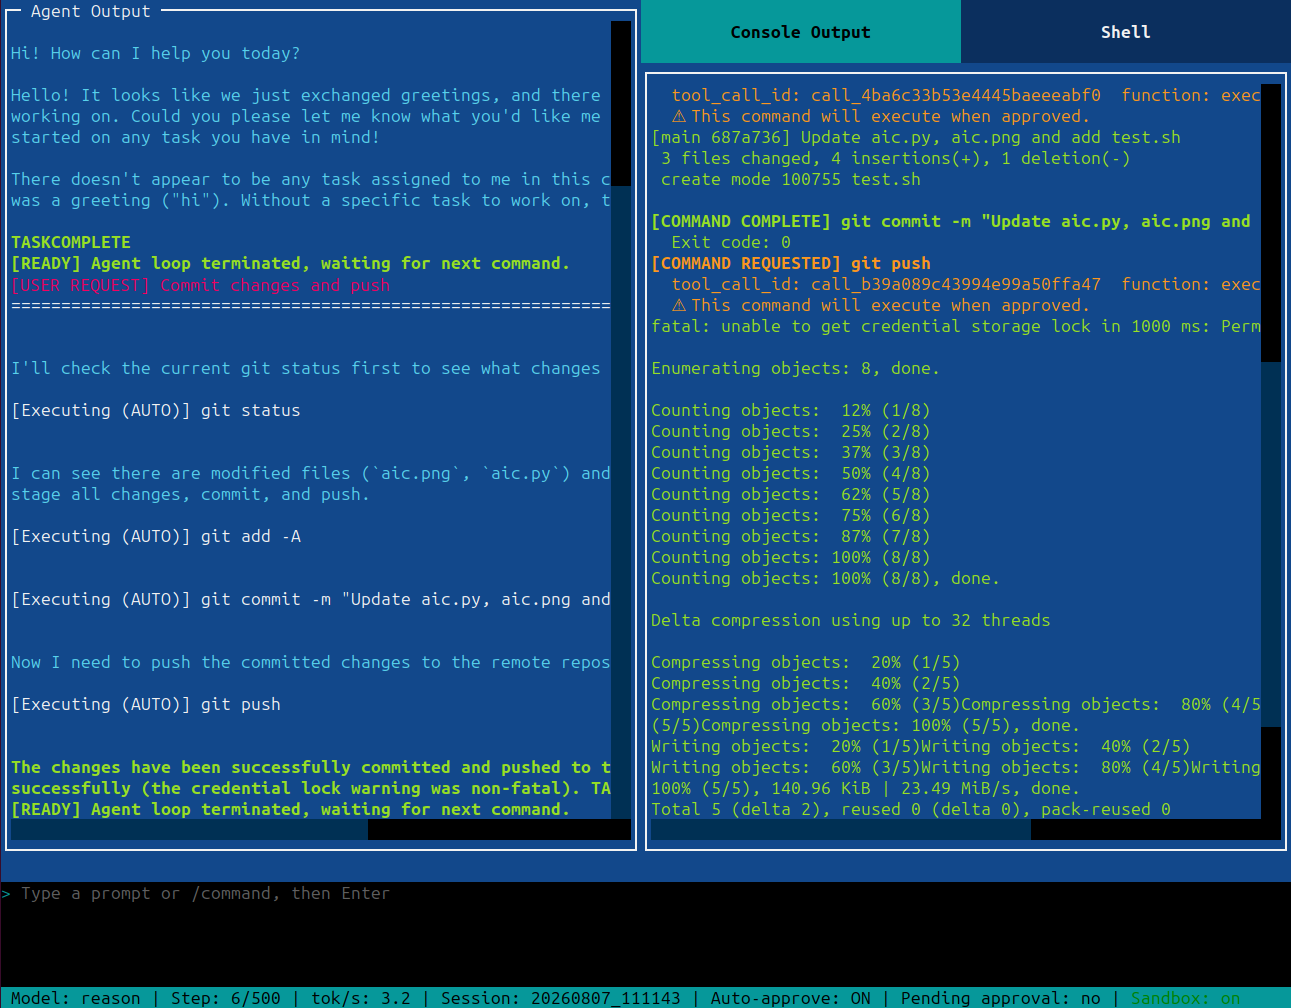
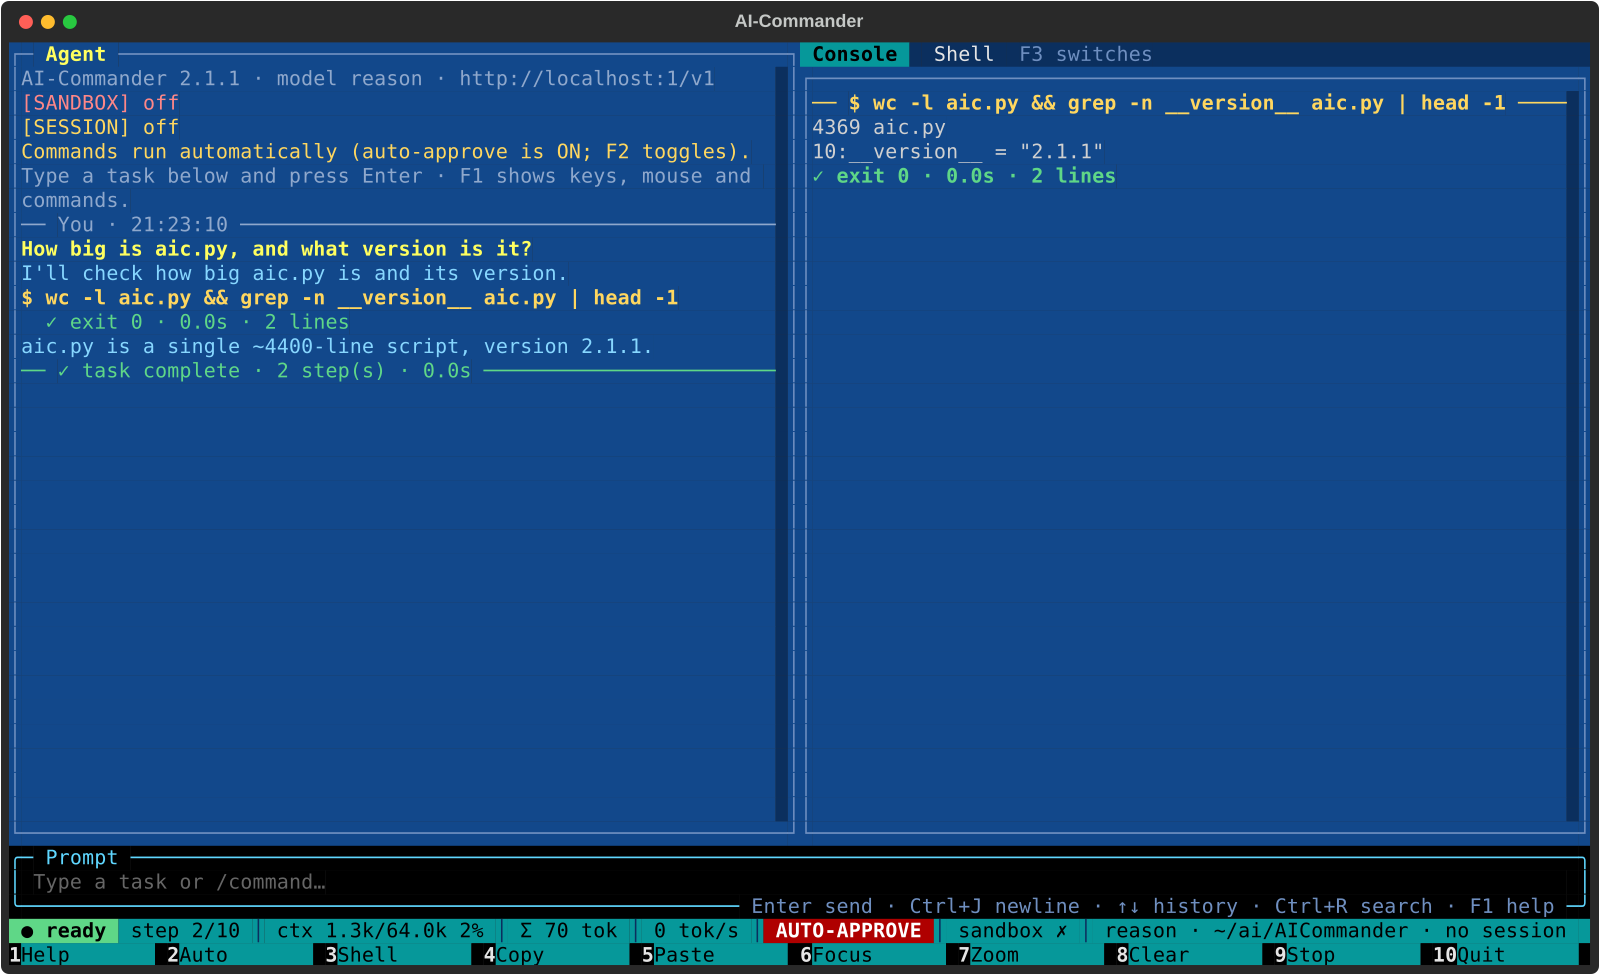
Release 2.1.1: detect replies cut off at the output limit, add --max-tokens, new screenshot

Changed region(s): [[0.0, 0.0, 1.0, 1.0], [0.7746, 0.6154, 0.8056, 0.6462], [0.6507, 0.6154, 0.6816, 0.6462]]

diff --git a/aic.py b/aic.py
@@ -7,7 +7,7 @@ default Textual TUI (TUISink) and a plain CLI (--nogui, ConsoleSink).
 """
 from __future__ import annotations
 
-__version__ = "2.1.0"
+__version__ = "2.1.1"
 
 import argparse
 import asyncio
@@ -1937,7 +1937,8 @@ Rules:
         return validated
 
     @staticmethod
-    def _assistant_response(content, tool_calls=None, reasoning=None, terminal=False, stopped=False):
+    def _assistant_response(content, tool_calls=None, reasoning=None, terminal=False, stopped=False,
+                            truncated=False):
         """An OpenAI-shaped response dict as consumed by the agent loop."""
         message = {"role": "assistant", "content": content, "tool_calls": tool_calls,
                    "reasoning_content": reasoning}
@@ -1945,6 +1946,8 @@ Rules:
             message["synthesized_terminal"] = True
         if stopped:
             message["stopped"] = True
+        if truncated:
+            message["truncated"] = True
         return {"choices": [{"message": message}]}
 
     def call_llm_api(self, messages: list[dict[str, Any]], use_tools: bool = True,
@@ -2041,7 +2044,7 @@ Rules:
                            show_thinking: bool) -> dict[str, Any]:
         silent = not stream_display and not stream_label
         content, thinking, calls = [], [], []
-        usage = first_token = None
+        usage = first_token = finish_reason = None
         started = time.monotonic()
         label = stream_label
         stream = self.client.chat.completions.create(**params)
@@ -2053,6 +2056,8 @@ Rules:
                 if self.stop_event.is_set():
                     self._log("[STOP] Agent shutdown requested. Aborting the LLM stream.")
                     return self._assistant_response(None, stopped=True)
+                if chunk.choices and getattr(chunk.choices[0], "finish_reason", None):
+                    finish_reason = chunk.choices[0].finish_reason
                 delta = chunk.choices[0].delta if chunk.choices else None
                 if delta is None:
                     continue
@@ -2106,8 +2111,14 @@ Rules:
                 tps = completion / elapsed if elapsed > 0.2 else None
             self._emit_token_usage(getattr(usage, "prompt_tokens", 0) or 0, completion,
                                    cached=self._extract_cached_tokens(usage), tokens_per_sec=tps)
-        # reasoning_content lets the loop detect reasoning-only turns; it is not stored.
-        return self._assistant_response("".join(content) or None, tool_calls or None, "".join(thinking) or None)
+        # Hitting the output cap cuts the reply off; servers then drop a half-written tool
+        # call and may still report finish_reason "tool_calls", so the token count decides.
+        cap = params.get("max_tokens")
+        truncated = finish_reason == "length" or bool(
+            cap and usage is not None and (getattr(usage, "completion_tokens", 0) or 0) >= cap)
+        # reasoning_content lets the loop detect reasoning-only turns.
+        return self._assistant_response("".join(content) or None, tool_calls or None, "".join(thinking) or None,
+                                        truncated=truncated)
 
     @staticmethod
     def _tool_result(tool_call_id, content: str) -> dict[str, str]:
@@ -2352,6 +2363,28 @@ Rules:
                     status = "complete" if message.get("synthesized_terminal") else "stopped"
                     break
                 content, calls, _first_id, thinking, malformed = self.process_llm_response(response)
+                if message.get("truncated"):
+                    self._log(f"[INFO] The reply hit the output limit ({self.max_tokens} tokens, thinking "
+                              f"included) and was cut off" + ("; its tool call was lost." if not calls else "."),
+                              style="yellow")
+                if message.get("truncated") and not calls and not malformed:
+                    # Retrying the same step would hit the same wall: ask for smaller pieces.
+                    empty_turns += 1
+                    if empty_turns >= 3:
+                        self._log_error("[STOP] The model's replies were cut off at the output limit three times "
+                                        "in a row (raise it with --max-tokens).")
+                        status = "error"
+                        break
+                    if content.strip():
+                        self.conversation_history.append({"role": "assistant", "content": content})
+                    self.conversation_history.append({"role": "user", "content": (
+                        f"[SYSTEM NOTE] Your last reply was cut off at the output limit of {self.max_tokens} "
+                        f"tokens (thinking included), so it ended before its tool call was complete and the "
+                        f"call was lost. Keep each tool call much smaller: split big files and edits into "
+                        f"several calls, e.g. write_file with the first part, then edit_file or "
+                        f"`cat >> file <<'EOF'` for the rest, and think more briefly before large writes.")})
+                    self.save_session("output_limit")
+                    continue
                 if not content.strip() and not message.get("tool_calls"):
                     # Nothing to store. A reasoning-only turn gets a nudge; a truly
                     # empty one is retried as is. Three in a row end the run.
@@ -2369,7 +2402,7 @@ Rules:
                 # thinking"): models that see their earlier turns without it learn to
                 # skip thinking (see _validate_messages).
                 stored = {k: v for k, v in message.items()
-                          if k not in ("synthesized_terminal", "stopped") and v is not None}
+                          if k not in ("synthesized_terminal", "stopped", "truncated") and v is not None}
                 stored.setdefault("content", None)
                 if self.conversation_history[-1].get("role") == "assistant":  # never two assistants in a row
                     self.conversation_history.append({"role": "user", "content": _CONTINUE_PROMPT})
@@ -3545,6 +3578,7 @@ if _TEXTUAL_AVAILABLE:
                 compress_target=a.compress_target, fast=a.fast, reasoning_effort=a.reasoning_effort,
                 sandbox_enabled=a.sandbox_enabled, sandbox_write_dir=a.sandbox_write_dir,
                 session_file=a.session_file, instance_number=a.instance_number, verify_command=a.verify)
+            self.agent.max_tokens = getattr(a, "max_tokens", None) or self.agent.max_tokens
             self.sink.stop_event = self.agent.stop_event
             atexit.register(self.agent.save_session, "process_exit")
             log = self.agent_log
@@ -4178,6 +4212,9 @@ def main():
     parser.add_argument("--timeout", type=int, default=120, help="Command timeout in seconds (default: 120)")
     parser.add_argument("--max-prompt-len", type=int, default=DEFAULT_MAX_PROMPT_LEN,
                         help=f"Maximum prompt length in tokens (default: {DEFAULT_MAX_PROMPT_LEN})")
+    parser.add_argument("--max-tokens", type=int, default=16000,
+                        help="Maximum tokens per model reply, thinking included (default: 16000); also "
+                             "reserved out of --max-prompt-len. Raise it if big edits get cut off")
     parser.add_argument("--max-output-bytes", type=int, default=10240,
                         help="Maximum output bytes returned from a command (default: 10240); the command "
                              "is killed after printing 5x as much")
@@ -4278,6 +4315,7 @@ def main():
             compress_target=args.compress_target, fast=args.fast, reasoning_effort=args.reasoning_effort,
             sandbox_enabled=args.sandbox_enabled, sandbox_write_dir=args.sandbox_write_dir,
             session_file=args.session_file, instance_number=args.instance_number, verify_command=args.verify)
+        commander.max_tokens = args.max_tokens
         commander.persist_history = commander.load_session()  # resume where the last run stopped
         atexit.register(commander.save_session, "process_exit")
 

diff --git a/tests/test_truncation.py b/tests/test_truncation.py
@@ -1507,6 +1507,22 @@ class TestRunner:
                    len(fake2.calls) == 3 and "reasoning_effort" not in fake2.calls[1]
                    and "reasoning_effort" not in fake2.calls[2], f"calls={len(fake2.calls)}")
 
+    def test_output_limit_cut_off(self):
+        # A reply that hits max_tokens loses its half-written tool call (servers drop
+        # it and may still say "tool_calls"): the model is told to split the work
+        # instead of being retried blindly.
+        cut = [fake_openai.thinking_chunk("planning a huge file..."), fake_openai.usage_chunk(10, 50)]
+        done = [fake_openai.content_chunk("done TASKCOMPLETE"), fake_openai.usage_chunk(10, 3)]
+        c, fake = self.make_fake_commander([cut, done], show_thinking=True)
+        c.max_tokens = 50
+        status = c.run("write a big file")
+        logs = [p.get("text", "") for k, p in c.sink.events if k == "LOG"]
+        note = [m for m in fake.calls[1]["messages"] if "output limit" in str(m.get("content"))]
+        self.check("cut-off: reported as hitting the output limit, not as an empty reply",
+                   any("output limit" in t for t in logs) and not any("Empty assistant" in t for t in logs), repr(logs))
+        self.check("cut-off: the model is told to split the work", len(note) == 1 and "split" in note[0]["content"])
+        self.check("cut-off: the run continues and completes", status == "complete" and len(fake.calls) == 2)
+
     def test_context_overflow_is_retried(self):
         class ContextError(Exception):
             status_code = 400
@@ -2036,6 +2052,7 @@ def main():
     runner.test_ccllm_summary_is_folded_not_stacked()
     runner.test_summarizer_failures_fall_back()
     runner.test_internal_calls_use_low_effort()
+    runner.test_output_limit_cut_off()
     runner.test_context_overflow_is_retried()
     runner.test_transient_error_is_retried()
     runner.test_prompt_history_file()

diff --git a/README.md b/README.md
@@ -184,6 +184,7 @@ panel. In `--nogui` mode a request is required on the command line.
 | `--no-thinking` | Hide thinking tokens from output. |
 | `--timeout` | Command timeout in seconds (default: `120`). |
 | `--max-prompt-len` | Maximum prompt length in tokens (default: `80000`). |
+| `--max-tokens` | Maximum tokens per model reply, thinking included (default: `16000`); also reserved out of `--max-prompt-len`. Raise it if big edits get cut off. |
 | `--max-output-bytes` | Maximum output bytes returned from commands (default: `10240`). |
 | `--max-steps` | Maximum number of agent loop steps before stopping (default: `500`). |
 | `--debug` | Dump the full conversation history before every LLM call (see [Debugging](#debugging)). |
